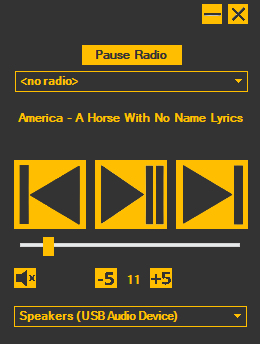
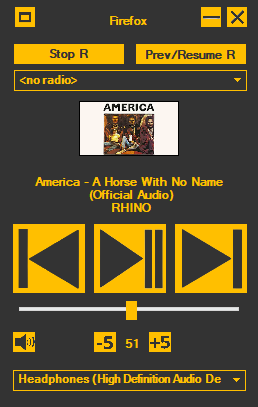
README update
README file has been updated, it now mentions various recently implemented features. The image showing the preview of the application has also been updated.

diff --git a/README.md b/README.md
@@ -4,16 +4,19 @@ It is especially useful to those that use remote desktop regularly, as it can be
 
 ## Features
 - playing audio from various internet radio streams using BASS.NET
+- advanced radio playback control (possible to pause radio, resume radio and switch to previous radio station)
 - pausing, playing, and skipping songs on any music application that supports Windows Media Controls (YouTube, Spotify, foobar2000 and more)
 - volume level control
 - changing audio output devices (such as switching from headphones to speakers)
 - name of current media (title and artist)
+- thumbnail of current media (if available)
 - appearing on top of other applications
+- "folding" the application (making the application frame very small temporarily)
 
 The application is still under development, and it's possible that more features will be added in the future.
 
 ## Adding internet radio streams
-The user is able to add new internet radio streams to the application. New streams can be added by modifying RadioList.xml file (location: bin\Debug\net6.0-windows10.0.22621.0\RadioList.xml). By default, this file contains two exemplary internet radio streams.
+The user is able to add new internet radio streams to the application. New streams can be added by modifying RadioList.xml file (location: bin\Debug\net6.0-windows10.0.22621.0\RadioList.xml). By default, this file contains two exemplary internet radio streams. In the future it's going to be possible to manage the radio list using GUI. 
 
 Preview of the application:
 
